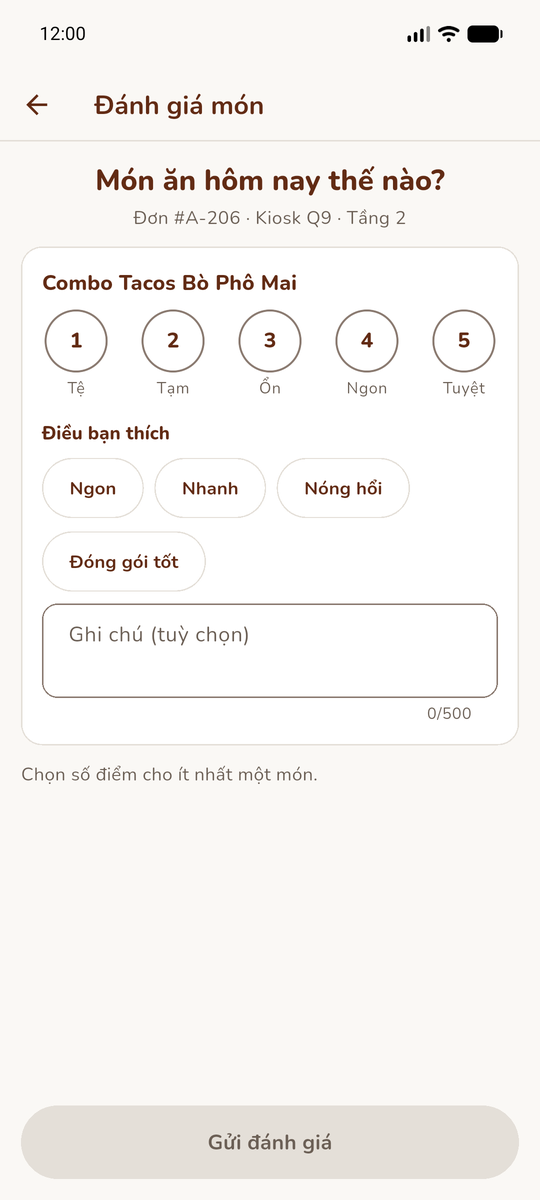
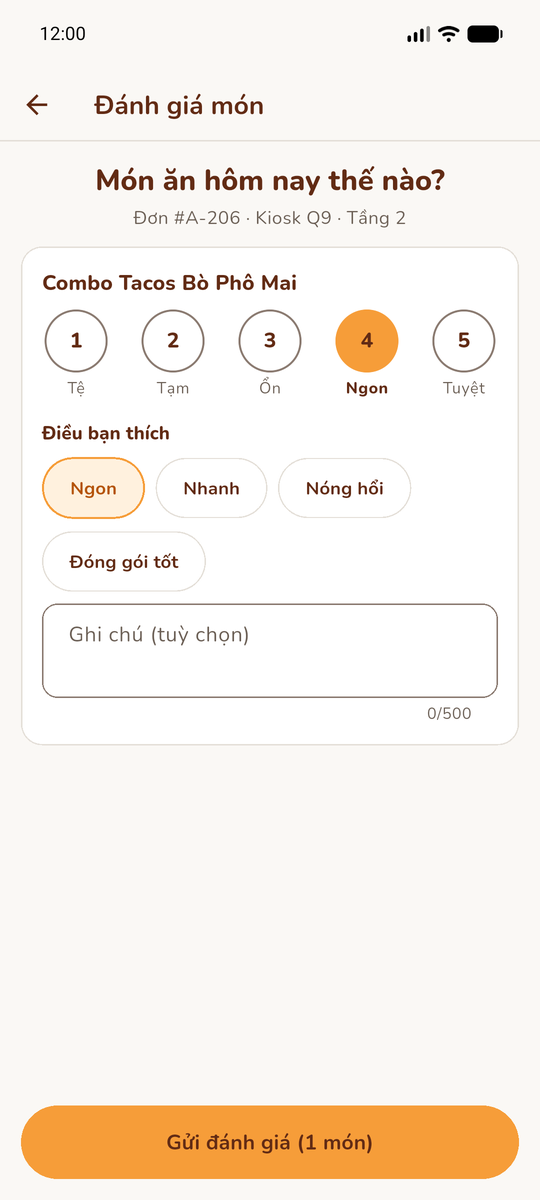
[T45] Keep both S23 screenshots: S23 with a choice made, S23-empty before it

diff --git a/evidence/README.md b/evidence/README.md
@@ -38,7 +38,7 @@ Taken from the app running on an **Android emulator** (Pixel 7, API 36) with fak
 
 | Folder | Content |
 |---|---|
-| `p2/<ID>.png` | The app screen at 540 × 1200. `S07.png`, `S07-dialog.png`, `S12-bottom.png` and `S23.png` (before choosing anything) show how some screens are reached or what is below the fold |
+| `p2/<ID>.png` | The app screen at 540 × 1200. `S07.png`, `S07-dialog.png`, `S12-bottom.png` and `S23-empty.png` (before choosing anything; `S23.png` has circle 4 and a tag chosen) show how some screens are reached or what is below the fold |
 | `figma/p2-<ID>.png` | Figma (Final UI v2, `PRM323-Lab2-Group2/assets/figma/final-ui-v2/`) on the left and the app on the right, for the slides. What still differs is in `docs/design-traceability.md` section 5 (D21 to D27) |
 
 ## Other criteria
